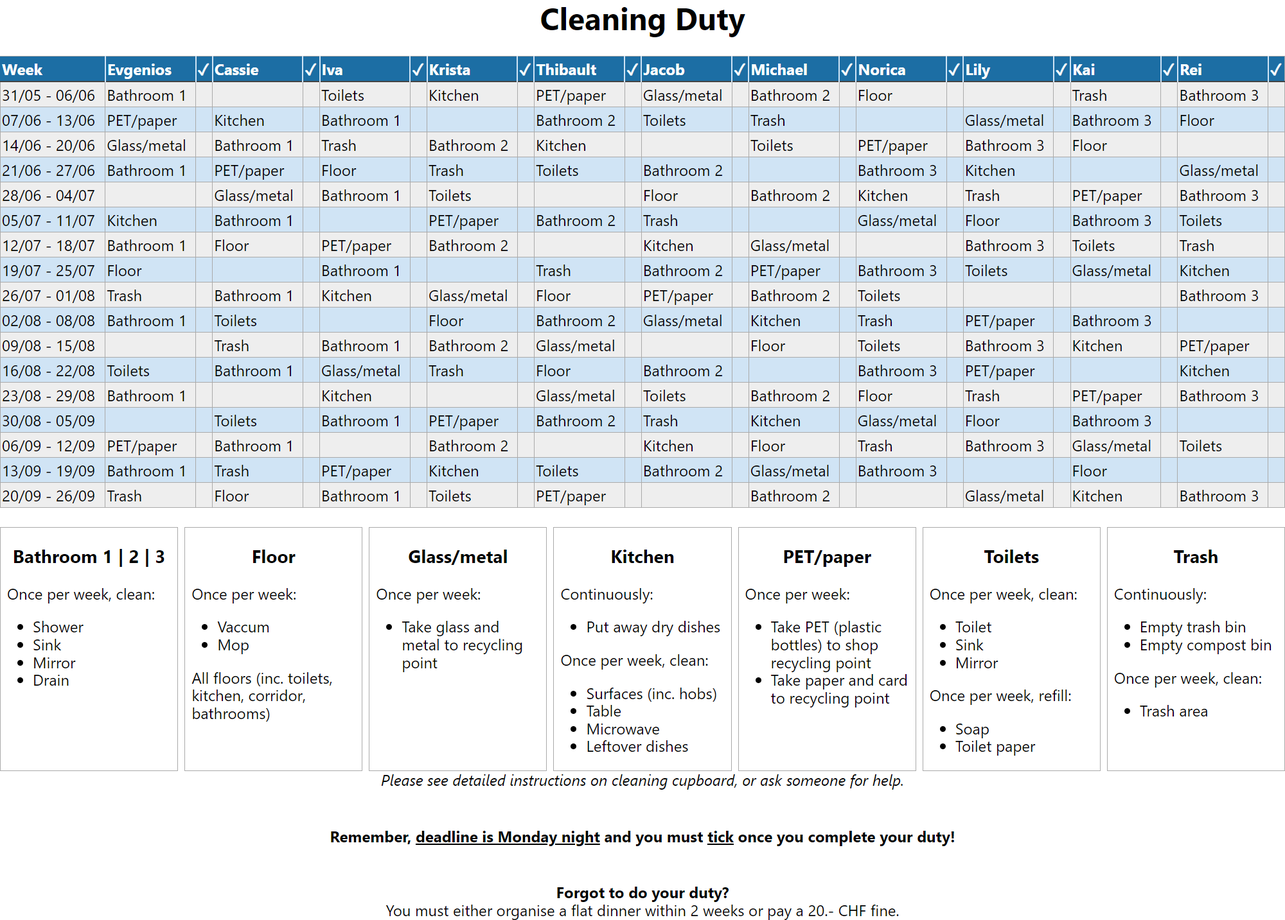
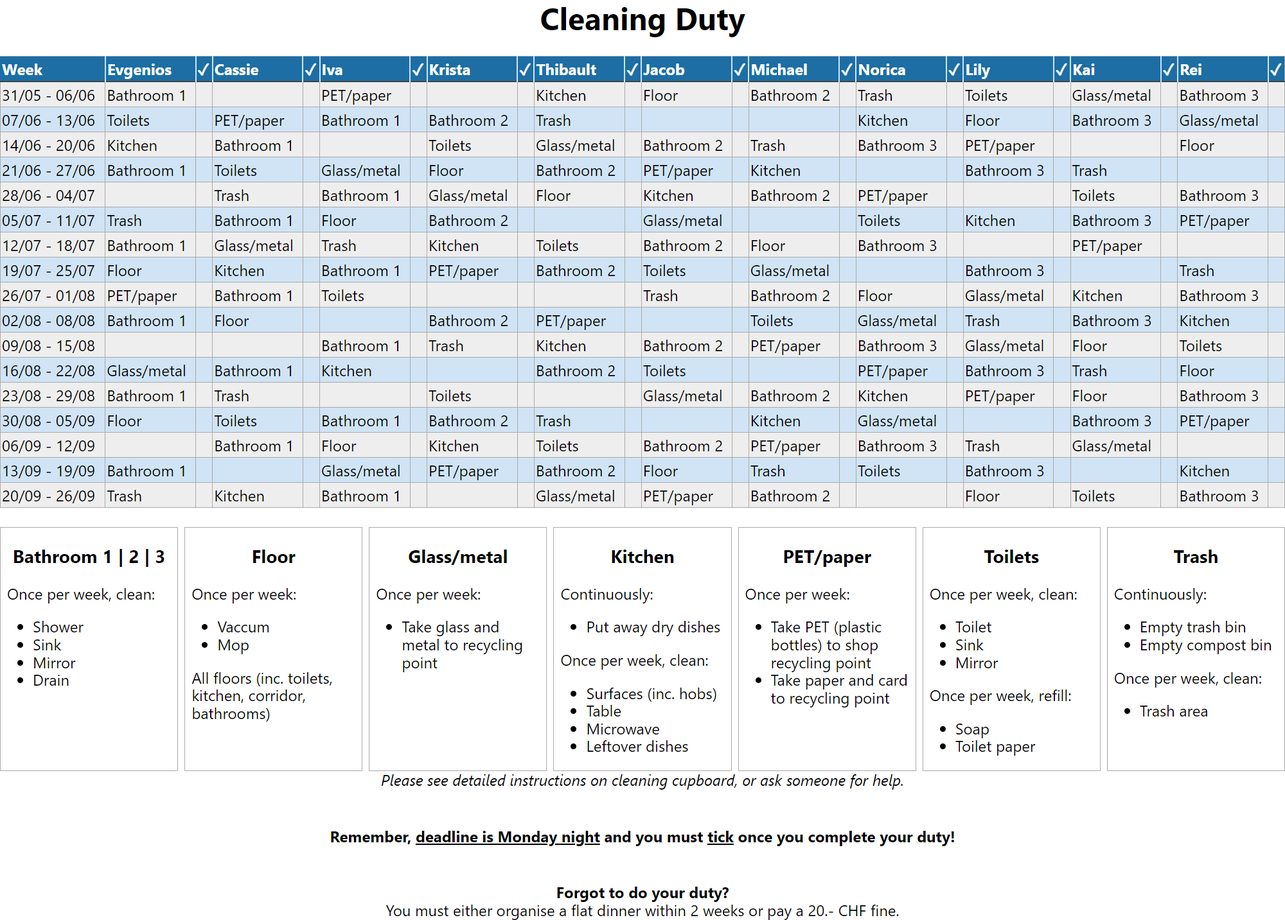
Regenerate with new seed

diff --git a/cleaning_duty.html b/cleaning_duty.html
@@ -10,23 +10,23 @@
 <tr><th>Week         </th><th>Evgenios   </th><th>✓  </th><th>Cassie     </th><th>✓  </th><th>Iva        </th><th>✓  </th><th>Krista     </th><th>✓  </th><th>Thibault   </th><th>✓  </th><th>Jacob      </th><th>✓  </th><th>Michael    </th><th>✓  </th><th>Norica     </th><th>✓  </th><th>Lily       </th><th>✓  </th><th>Kai        </th><th>✓  </th><th>Rei        </th><th>✓  </th></tr>
 </thead>
 <tbody>
-<tr><td>31/05 - 06/06</td><td>Bathroom 1 </td><td>   </td><td>           </td><td>   </td><td>Toilets    </td><td>   </td><td>Kitchen    </td><td>   </td><td>PET/paper  </td><td>   </td><td>Glass/metal</td><td>   </td><td>Bathroom 2 </td><td>   </td><td>Floor      </td><td>   </td><td>           </td><td>   </td><td>Trash      </td><td>   </td><td>Bathroom 3 </td><td>   </td></tr>
-<tr><td>07/06 - 13/06</td><td>PET/paper  </td><td>   </td><td>Kitchen    </td><td>   </td><td>Bathroom 1 </td><td>   </td><td>           </td><td>   </td><td>Bathroom 2 </td><td>   </td><td>Toilets    </td><td>   </td><td>Trash      </td><td>   </td><td>           </td><td>   </td><td>Glass/metal</td><td>   </td><td>Bathroom 3 </td><td>   </td><td>Floor      </td><td>   </td></tr>
-<tr><td>14/06 - 20/06</td><td>Glass/metal</td><td>   </td><td>Bathroom 1 </td><td>   </td><td>Trash      </td><td>   </td><td>Bathroom 2 </td><td>   </td><td>Kitchen    </td><td>   </td><td>           </td><td>   </td><td>Toilets    </td><td>   </td><td>PET/paper  </td><td>   </td><td>Bathroom 3 </td><td>   </td><td>Floor      </td><td>   </td><td>           </td><td>   </td></tr>
-<tr><td>21/06 - 27/06</td><td>Bathroom 1 </td><td>   </td><td>PET/paper  </td><td>   </td><td>Floor      </td><td>   </td><td>Trash      </td><td>   </td><td>Toilets    </td><td>   </td><td>Bathroom 2 </td><td>   </td><td>           </td><td>   </td><td>Bathroom 3 </td><td>   </td><td>Kitchen    </td><td>   </td><td>           </td><td>   </td><td>Glass/metal</td><td>   </td></tr>
-<tr><td>28/06 - 04/07</td><td>           </td><td>   </td><td>Glass/metal</td><td>   </td><td>Bathroom 1 </td><td>   </td><td>Toilets    </td><td>   </td><td>           </td><td>   </td><td>Floor      </td><td>   </td><td>Bathroom 2 </td><td>   </td><td>Kitchen    </td><td>   </td><td>Trash      </td><td>   </td><td>PET/paper  </td><td>   </td><td>Bathroom 3 </td><td>   </td></tr>
-<tr><td>05/07 - 11/07</td><td>Kitchen    </td><td>   </td><td>Bathroom 1 </td><td>   </td><td>           </td><td>   </td><td>PET/paper  </td><td>   </td><td>Bathroom 2 </td><td>   </td><td>Trash      </td><td>   </td><td>           </td><td>   </td><td>Glass/metal</td><td>   </td><td>Floor      </td><td>   </td><td>Bathroom 3 </td><td>   </td><td>Toilets    </td><td>   </td></tr>
-<tr><td>12/07 - 18/07</td><td>Bathroom 1 </td><td>   </td><td>Floor      </td><td>   </td><td>PET/paper  </td><td>   </td><td>Bathroom 2 </td><td>   </td><td>           </td><td>   </td><td>Kitchen    </td><td>   </td><td>Glass/metal</td><td>   </td><td>           </td><td>   </td><td>Bathroom 3 </td><td>   </td><td>Toilets    </td><td>   </td><td>Trash      </td><td>   </td></tr>
-<tr><td>19/07 - 25/07</td><td>Floor      </td><td>   </td><td>           </td><td>   </td><td>Bathroom 1 </td><td>   </td><td>           </td><td>   </td><td>Trash      </td><td>   </td><td>Bathroom 2 </td><td>   </td><td>PET/paper  </td><td>   </td><td>Bathroom 3 </td><td>   </td><td>Toilets    </td><td>   </td><td>Glass/metal</td><td>   </td><td>Kitchen    </td><td>   </td></tr>
-<tr><td>26/07 - 01/08</td><td>Trash      </td><td>   </td><td>Bathroom 1 </td><td>   </td><td>Kitchen    </td><td>   </td><td>Glass/metal</td><td>   </td><td>Floor      </td><td>   </td><td>PET/paper  </td><td>   </td><td>Bathroom 2 </td><td>   </td><td>Toilets    </td><td>   </td><td>           </td><td>   </td><td>           </td><td>   </td><td>Bathroom 3 </td><td>   </td></tr>
-<tr><td>02/08 - 08/08</td><td>Bathroom 1 </td><td>   </td><td>Toilets    </td><td>   </td><td>           </td><td>   </td><td>Floor      </td><td>   </td><td>Bathroom 2 </td><td>   </td><td>Glass/metal</td><td>   </td><td>Kitchen    </td><td>   </td><td>Trash      </td><td>   </td><td>PET/paper  </td><td>   </td><td>Bathroom 3 </td><td>   </td><td>           </td><td>   </td></tr>
-<tr><td>09/08 - 15/08</td><td>           </td><td>   </td><td>Trash      </td><td>   </td><td>Bathroom 1 </td><td>   </td><td>Bathroom 2 </td><td>   </td><td>Glass/metal</td><td>   </td><td>           </td><td>   </td><td>Floor      </td><td>   </td><td>Toilets    </td><td>   </td><td>Bathroom 3 </td><td>   </td><td>Kitchen    </td><td>   </td><td>PET/paper  </td><td>   </td></tr>
-<tr><td>16/08 - 22/08</td><td>Toilets    </td><td>   </td><td>Bathroom 1 </td><td>   </td><td>Glass/metal</td><td>   </td><td>Trash      </td><td>   </td><td>Floor      </td><td>   </td><td>Bathroom 2 </td><td>   </td><td>           </td><td>   </td><td>Bathroom 3 </td><td>   </td><td>PET/paper  </td><td>   </td><td>           </td><td>   </td><td>Kitchen    </td><td>   </td></tr>
-<tr><td>23/08 - 29/08</td><td>Bathroom 1 </td><td>   </td><td>           </td><td>   </td><td>Kitchen    </td><td>   </td><td>           </td><td>   </td><td>Glass/metal</td><td>   </td><td>Toilets    </td><td>   </td><td>Bathroom 2 </td><td>   </td><td>Floor      </td><td>   </td><td>Trash      </td><td>   </td><td>PET/paper  </td><td>   </td><td>Bathroom 3 </td><td>   </td></tr>
-<tr><td>30/08 - 05/09</td><td>           </td><td>   </td><td>Toilets    </td><td>   </td><td>Bathroom 1 </td><td>   </td><td>PET/paper  </td><td>   </td><td>Bathroom 2 </td><td>   </td><td>Trash      </td><td>   </td><td>Kitchen    </td><td>   </td><td>Glass/metal</td><td>   </td><td>Floor      </td><td>   </td><td>Bathroom 3 </td><td>   </td><td>           </td><td>   </td></tr>
-<tr><td>06/09 - 12/09</td><td>PET/paper  </td><td>   </td><td>Bathroom 1 </td><td>   </td><td>           </td><td>   </td><td>Bathroom 2 </td><td>   </td><td>           </td><td>   </td><td>Kitchen    </td><td>   </td><td>Floor      </td><td>   </td><td>Trash      </td><td>   </td><td>Bathroom 3 </td><td>   </td><td>Glass/metal</td><td>   </td><td>Toilets    </td><td>   </td></tr>
-<tr><td>13/09 - 19/09</td><td>Bathroom 1 </td><td>   </td><td>Trash      </td><td>   </td><td>PET/paper  </td><td>   </td><td>Kitchen    </td><td>   </td><td>Toilets    </td><td>   </td><td>Bathroom 2 </td><td>   </td><td>Glass/metal</td><td>   </td><td>Bathroom 3 </td><td>   </td><td>           </td><td>   </td><td>Floor      </td><td>   </td><td>           </td><td>   </td></tr>
-<tr><td>20/09 - 26/09</td><td>Trash      </td><td>   </td><td>Floor      </td><td>   </td><td>Bathroom 1 </td><td>   </td><td>Toilets    </td><td>   </td><td>PET/paper  </td><td>   </td><td>           </td><td>   </td><td>Bathroom 2 </td><td>   </td><td>           </td><td>   </td><td>Glass/metal</td><td>   </td><td>Kitchen    </td><td>   </td><td>Bathroom 3 </td><td>   </td></tr>
+<tr><td>31/05 - 06/06</td><td>Bathroom 1 </td><td>   </td><td>           </td><td>   </td><td>PET/paper  </td><td>   </td><td>           </td><td>   </td><td>Kitchen    </td><td>   </td><td>Floor      </td><td>   </td><td>Bathroom 2 </td><td>   </td><td>Trash      </td><td>   </td><td>Toilets    </td><td>   </td><td>Glass/metal</td><td>   </td><td>Bathroom 3 </td><td>   </td></tr>
+<tr><td>07/06 - 13/06</td><td>Toilets    </td><td>   </td><td>PET/paper  </td><td>   </td><td>Bathroom 1 </td><td>   </td><td>Bathroom 2 </td><td>   </td><td>Trash      </td><td>   </td><td>           </td><td>   </td><td>           </td><td>   </td><td>Kitchen    </td><td>   </td><td>Floor      </td><td>   </td><td>Bathroom 3 </td><td>   </td><td>Glass/metal</td><td>   </td></tr>
+<tr><td>14/06 - 20/06</td><td>Kitchen    </td><td>   </td><td>Bathroom 1 </td><td>   </td><td>           </td><td>   </td><td>Toilets    </td><td>   </td><td>Glass/metal</td><td>   </td><td>Bathroom 2 </td><td>   </td><td>Trash      </td><td>   </td><td>Bathroom 3 </td><td>   </td><td>PET/paper  </td><td>   </td><td>           </td><td>   </td><td>Floor      </td><td>   </td></tr>
+<tr><td>21/06 - 27/06</td><td>Bathroom 1 </td><td>   </td><td>Toilets    </td><td>   </td><td>Glass/metal</td><td>   </td><td>Floor      </td><td>   </td><td>Bathroom 2 </td><td>   </td><td>PET/paper  </td><td>   </td><td>Kitchen    </td><td>   </td><td>           </td><td>   </td><td>Bathroom 3 </td><td>   </td><td>Trash      </td><td>   </td><td>           </td><td>   </td></tr>
+<tr><td>28/06 - 04/07</td><td>           </td><td>   </td><td>Trash      </td><td>   </td><td>Bathroom 1 </td><td>   </td><td>Glass/metal</td><td>   </td><td>Floor      </td><td>   </td><td>Kitchen    </td><td>   </td><td>Bathroom 2 </td><td>   </td><td>PET/paper  </td><td>   </td><td>           </td><td>   </td><td>Toilets    </td><td>   </td><td>Bathroom 3 </td><td>   </td></tr>
+<tr><td>05/07 - 11/07</td><td>Trash      </td><td>   </td><td>Bathroom 1 </td><td>   </td><td>Floor      </td><td>   </td><td>Bathroom 2 </td><td>   </td><td>           </td><td>   </td><td>Glass/metal</td><td>   </td><td>           </td><td>   </td><td>Toilets    </td><td>   </td><td>Kitchen    </td><td>   </td><td>Bathroom 3 </td><td>   </td><td>PET/paper  </td><td>   </td></tr>
+<tr><td>12/07 - 18/07</td><td>Bathroom 1 </td><td>   </td><td>Glass/metal</td><td>   </td><td>Trash      </td><td>   </td><td>Kitchen    </td><td>   </td><td>Toilets    </td><td>   </td><td>Bathroom 2 </td><td>   </td><td>Floor      </td><td>   </td><td>Bathroom 3 </td><td>   </td><td>           </td><td>   </td><td>PET/paper  </td><td>   </td><td>           </td><td>   </td></tr>
+<tr><td>19/07 - 25/07</td><td>Floor      </td><td>   </td><td>Kitchen    </td><td>   </td><td>Bathroom 1 </td><td>   </td><td>PET/paper  </td><td>   </td><td>Bathroom 2 </td><td>   </td><td>Toilets    </td><td>   </td><td>Glass/metal</td><td>   </td><td>           </td><td>   </td><td>Bathroom 3 </td><td>   </td><td>           </td><td>   </td><td>Trash      </td><td>   </td></tr>
+<tr><td>26/07 - 01/08</td><td>PET/paper  </td><td>   </td><td>Bathroom 1 </td><td>   </td><td>Toilets    </td><td>   </td><td>           </td><td>   </td><td>           </td><td>   </td><td>Trash      </td><td>   </td><td>Bathroom 2 </td><td>   </td><td>Floor      </td><td>   </td><td>Glass/metal</td><td>   </td><td>Kitchen    </td><td>   </td><td>Bathroom 3 </td><td>   </td></tr>
+<tr><td>02/08 - 08/08</td><td>Bathroom 1 </td><td>   </td><td>Floor      </td><td>   </td><td>           </td><td>   </td><td>Bathroom 2 </td><td>   </td><td>PET/paper  </td><td>   </td><td>           </td><td>   </td><td>Toilets    </td><td>   </td><td>Glass/metal</td><td>   </td><td>Trash      </td><td>   </td><td>Bathroom 3 </td><td>   </td><td>Kitchen    </td><td>   </td></tr>
+<tr><td>09/08 - 15/08</td><td>           </td><td>   </td><td>           </td><td>   </td><td>Bathroom 1 </td><td>   </td><td>Trash      </td><td>   </td><td>Kitchen    </td><td>   </td><td>Bathroom 2 </td><td>   </td><td>PET/paper  </td><td>   </td><td>Bathroom 3 </td><td>   </td><td>Glass/metal</td><td>   </td><td>Floor      </td><td>   </td><td>Toilets    </td><td>   </td></tr>
+<tr><td>16/08 - 22/08</td><td>Glass/metal</td><td>   </td><td>Bathroom 1 </td><td>   </td><td>Kitchen    </td><td>   </td><td>           </td><td>   </td><td>Bathroom 2 </td><td>   </td><td>Toilets    </td><td>   </td><td>           </td><td>   </td><td>PET/paper  </td><td>   </td><td>Bathroom 3 </td><td>   </td><td>Trash      </td><td>   </td><td>Floor      </td><td>   </td></tr>
+<tr><td>23/08 - 29/08</td><td>Bathroom 1 </td><td>   </td><td>Trash      </td><td>   </td><td>           </td><td>   </td><td>Toilets    </td><td>   </td><td>           </td><td>   </td><td>Glass/metal</td><td>   </td><td>Bathroom 2 </td><td>   </td><td>Kitchen    </td><td>   </td><td>PET/paper  </td><td>   </td><td>Floor      </td><td>   </td><td>Bathroom 3 </td><td>   </td></tr>
+<tr><td>30/08 - 05/09</td><td>Floor      </td><td>   </td><td>Toilets    </td><td>   </td><td>Bathroom 1 </td><td>   </td><td>Bathroom 2 </td><td>   </td><td>Trash      </td><td>   </td><td>           </td><td>   </td><td>Kitchen    </td><td>   </td><td>Glass/metal</td><td>   </td><td>           </td><td>   </td><td>Bathroom 3 </td><td>   </td><td>PET/paper  </td><td>   </td></tr>
+<tr><td>06/09 - 12/09</td><td>           </td><td>   </td><td>Bathroom 1 </td><td>   </td><td>Floor      </td><td>   </td><td>Kitchen    </td><td>   </td><td>Toilets    </td><td>   </td><td>Bathroom 2 </td><td>   </td><td>PET/paper  </td><td>   </td><td>Bathroom 3 </td><td>   </td><td>Trash      </td><td>   </td><td>Glass/metal</td><td>   </td><td>           </td><td>   </td></tr>
+<tr><td>13/09 - 19/09</td><td>Bathroom 1 </td><td>   </td><td>           </td><td>   </td><td>Glass/metal</td><td>   </td><td>PET/paper  </td><td>   </td><td>Bathroom 2 </td><td>   </td><td>Floor      </td><td>   </td><td>Trash      </td><td>   </td><td>Toilets    </td><td>   </td><td>Bathroom 3 </td><td>   </td><td>           </td><td>   </td><td>Kitchen    </td><td>   </td></tr>
+<tr><td>20/09 - 26/09</td><td>Trash      </td><td>   </td><td>Kitchen    </td><td>   </td><td>Bathroom 1 </td><td>   </td><td>           </td><td>   </td><td>Glass/metal</td><td>   </td><td>PET/paper  </td><td>   </td><td>Bathroom 2 </td><td>   </td><td>           </td><td>   </td><td>Floor      </td><td>   </td><td>Toilets    </td><td>   </td><td>Bathroom 3 </td><td>   </td></tr>
 </tbody>
 </table>
 <div class="container">

diff --git a/html/table.html b/html/table.html
@@ -3,22 +3,22 @@
 <tr><th>Week         </th><th>Evgenios   </th><th>✓  </th><th>Cassie     </th><th>✓  </th><th>Iva        </th><th>✓  </th><th>Krista     </th><th>✓  </th><th>Thibault   </th><th>✓  </th><th>Jacob      </th><th>✓  </th><th>Michael    </th><th>✓  </th><th>Norica     </th><th>✓  </th><th>Lily       </th><th>✓  </th><th>Kai        </th><th>✓  </th><th>Rei        </th><th>✓  </th></tr>
 </thead>
 <tbody>
-<tr><td>31/05 - 06/06</td><td>Bathroom 1 </td><td>   </td><td>           </td><td>   </td><td>Toilets    </td><td>   </td><td>Kitchen    </td><td>   </td><td>PET/paper  </td><td>   </td><td>Glass/metal</td><td>   </td><td>Bathroom 2 </td><td>   </td><td>Floor      </td><td>   </td><td>           </td><td>   </td><td>Trash      </td><td>   </td><td>Bathroom 3 </td><td>   </td></tr>
-<tr><td>07/06 - 13/06</td><td>PET/paper  </td><td>   </td><td>Kitchen    </td><td>   </td><td>Bathroom 1 </td><td>   </td><td>           </td><td>   </td><td>Bathroom 2 </td><td>   </td><td>Toilets    </td><td>   </td><td>Trash      </td><td>   </td><td>           </td><td>   </td><td>Glass/metal</td><td>   </td><td>Bathroom 3 </td><td>   </td><td>Floor      </td><td>   </td></tr>
-<tr><td>14/06 - 20/06</td><td>Glass/metal</td><td>   </td><td>Bathroom 1 </td><td>   </td><td>Trash      </td><td>   </td><td>Bathroom 2 </td><td>   </td><td>Kitchen    </td><td>   </td><td>           </td><td>   </td><td>Toilets    </td><td>   </td><td>PET/paper  </td><td>   </td><td>Bathroom 3 </td><td>   </td><td>Floor      </td><td>   </td><td>           </td><td>   </td></tr>
-<tr><td>21/06 - 27/06</td><td>Bathroom 1 </td><td>   </td><td>PET/paper  </td><td>   </td><td>Floor      </td><td>   </td><td>Trash      </td><td>   </td><td>Toilets    </td><td>   </td><td>Bathroom 2 </td><td>   </td><td>           </td><td>   </td><td>Bathroom 3 </td><td>   </td><td>Kitchen    </td><td>   </td><td>           </td><td>   </td><td>Glass/metal</td><td>   </td></tr>
-<tr><td>28/06 - 04/07</td><td>           </td><td>   </td><td>Glass/metal</td><td>   </td><td>Bathroom 1 </td><td>   </td><td>Toilets    </td><td>   </td><td>           </td><td>   </td><td>Floor      </td><td>   </td><td>Bathroom 2 </td><td>   </td><td>Kitchen    </td><td>   </td><td>Trash      </td><td>   </td><td>PET/paper  </td><td>   </td><td>Bathroom 3 </td><td>   </td></tr>
-<tr><td>05/07 - 11/07</td><td>Kitchen    </td><td>   </td><td>Bathroom 1 </td><td>   </td><td>           </td><td>   </td><td>PET/paper  </td><td>   </td><td>Bathroom 2 </td><td>   </td><td>Trash      </td><td>   </td><td>           </td><td>   </td><td>Glass/metal</td><td>   </td><td>Floor      </td><td>   </td><td>Bathroom 3 </td><td>   </td><td>Toilets    </td><td>   </td></tr>
-<tr><td>12/07 - 18/07</td><td>Bathroom 1 </td><td>   </td><td>Floor      </td><td>   </td><td>PET/paper  </td><td>   </td><td>Bathroom 2 </td><td>   </td><td>           </td><td>   </td><td>Kitchen    </td><td>   </td><td>Glass/metal</td><td>   </td><td>           </td><td>   </td><td>Bathroom 3 </td><td>   </td><td>Toilets    </td><td>   </td><td>Trash      </td><td>   </td></tr>
-<tr><td>19/07 - 25/07</td><td>Floor      </td><td>   </td><td>           </td><td>   </td><td>Bathroom 1 </td><td>   </td><td>           </td><td>   </td><td>Trash      </td><td>   </td><td>Bathroom 2 </td><td>   </td><td>PET/paper  </td><td>   </td><td>Bathroom 3 </td><td>   </td><td>Toilets    </td><td>   </td><td>Glass/metal</td><td>   </td><td>Kitchen    </td><td>   </td></tr>
-<tr><td>26/07 - 01/08</td><td>Trash      </td><td>   </td><td>Bathroom 1 </td><td>   </td><td>Kitchen    </td><td>   </td><td>Glass/metal</td><td>   </td><td>Floor      </td><td>   </td><td>PET/paper  </td><td>   </td><td>Bathroom 2 </td><td>   </td><td>Toilets    </td><td>   </td><td>           </td><td>   </td><td>           </td><td>   </td><td>Bathroom 3 </td><td>   </td></tr>
-<tr><td>02/08 - 08/08</td><td>Bathroom 1 </td><td>   </td><td>Toilets    </td><td>   </td><td>           </td><td>   </td><td>Floor      </td><td>   </td><td>Bathroom 2 </td><td>   </td><td>Glass/metal</td><td>   </td><td>Kitchen    </td><td>   </td><td>Trash      </td><td>   </td><td>PET/paper  </td><td>   </td><td>Bathroom 3 </td><td>   </td><td>           </td><td>   </td></tr>
-<tr><td>09/08 - 15/08</td><td>           </td><td>   </td><td>Trash      </td><td>   </td><td>Bathroom 1 </td><td>   </td><td>Bathroom 2 </td><td>   </td><td>Glass/metal</td><td>   </td><td>           </td><td>   </td><td>Floor      </td><td>   </td><td>Toilets    </td><td>   </td><td>Bathroom 3 </td><td>   </td><td>Kitchen    </td><td>   </td><td>PET/paper  </td><td>   </td></tr>
-<tr><td>16/08 - 22/08</td><td>Toilets    </td><td>   </td><td>Bathroom 1 </td><td>   </td><td>Glass/metal</td><td>   </td><td>Trash      </td><td>   </td><td>Floor      </td><td>   </td><td>Bathroom 2 </td><td>   </td><td>           </td><td>   </td><td>Bathroom 3 </td><td>   </td><td>PET/paper  </td><td>   </td><td>           </td><td>   </td><td>Kitchen    </td><td>   </td></tr>
-<tr><td>23/08 - 29/08</td><td>Bathroom 1 </td><td>   </td><td>           </td><td>   </td><td>Kitchen    </td><td>   </td><td>           </td><td>   </td><td>Glass/metal</td><td>   </td><td>Toilets    </td><td>   </td><td>Bathroom 2 </td><td>   </td><td>Floor      </td><td>   </td><td>Trash      </td><td>   </td><td>PET/paper  </td><td>   </td><td>Bathroom 3 </td><td>   </td></tr>
-<tr><td>30/08 - 05/09</td><td>           </td><td>   </td><td>Toilets    </td><td>   </td><td>Bathroom 1 </td><td>   </td><td>PET/paper  </td><td>   </td><td>Bathroom 2 </td><td>   </td><td>Trash      </td><td>   </td><td>Kitchen    </td><td>   </td><td>Glass/metal</td><td>   </td><td>Floor      </td><td>   </td><td>Bathroom 3 </td><td>   </td><td>           </td><td>   </td></tr>
-<tr><td>06/09 - 12/09</td><td>PET/paper  </td><td>   </td><td>Bathroom 1 </td><td>   </td><td>           </td><td>   </td><td>Bathroom 2 </td><td>   </td><td>           </td><td>   </td><td>Kitchen    </td><td>   </td><td>Floor      </td><td>   </td><td>Trash      </td><td>   </td><td>Bathroom 3 </td><td>   </td><td>Glass/metal</td><td>   </td><td>Toilets    </td><td>   </td></tr>
-<tr><td>13/09 - 19/09</td><td>Bathroom 1 </td><td>   </td><td>Trash      </td><td>   </td><td>PET/paper  </td><td>   </td><td>Kitchen    </td><td>   </td><td>Toilets    </td><td>   </td><td>Bathroom 2 </td><td>   </td><td>Glass/metal</td><td>   </td><td>Bathroom 3 </td><td>   </td><td>           </td><td>   </td><td>Floor      </td><td>   </td><td>           </td><td>   </td></tr>
-<tr><td>20/09 - 26/09</td><td>Trash      </td><td>   </td><td>Floor      </td><td>   </td><td>Bathroom 1 </td><td>   </td><td>Toilets    </td><td>   </td><td>PET/paper  </td><td>   </td><td>           </td><td>   </td><td>Bathroom 2 </td><td>   </td><td>           </td><td>   </td><td>Glass/metal</td><td>   </td><td>Kitchen    </td><td>   </td><td>Bathroom 3 </td><td>   </td></tr>
+<tr><td>31/05 - 06/06</td><td>Bathroom 1 </td><td>   </td><td>           </td><td>   </td><td>PET/paper  </td><td>   </td><td>           </td><td>   </td><td>Kitchen    </td><td>   </td><td>Floor      </td><td>   </td><td>Bathroom 2 </td><td>   </td><td>Trash      </td><td>   </td><td>Toilets    </td><td>   </td><td>Glass/metal</td><td>   </td><td>Bathroom 3 </td><td>   </td></tr>
+<tr><td>07/06 - 13/06</td><td>Toilets    </td><td>   </td><td>PET/paper  </td><td>   </td><td>Bathroom 1 </td><td>   </td><td>Bathroom 2 </td><td>   </td><td>Trash      </td><td>   </td><td>           </td><td>   </td><td>           </td><td>   </td><td>Kitchen    </td><td>   </td><td>Floor      </td><td>   </td><td>Bathroom 3 </td><td>   </td><td>Glass/metal</td><td>   </td></tr>
+<tr><td>14/06 - 20/06</td><td>Kitchen    </td><td>   </td><td>Bathroom 1 </td><td>   </td><td>           </td><td>   </td><td>Toilets    </td><td>   </td><td>Glass/metal</td><td>   </td><td>Bathroom 2 </td><td>   </td><td>Trash      </td><td>   </td><td>Bathroom 3 </td><td>   </td><td>PET/paper  </td><td>   </td><td>           </td><td>   </td><td>Floor      </td><td>   </td></tr>
+<tr><td>21/06 - 27/06</td><td>Bathroom 1 </td><td>   </td><td>Toilets    </td><td>   </td><td>Glass/metal</td><td>   </td><td>Floor      </td><td>   </td><td>Bathroom 2 </td><td>   </td><td>PET/paper  </td><td>   </td><td>Kitchen    </td><td>   </td><td>           </td><td>   </td><td>Bathroom 3 </td><td>   </td><td>Trash      </td><td>   </td><td>           </td><td>   </td></tr>
+<tr><td>28/06 - 04/07</td><td>           </td><td>   </td><td>Trash      </td><td>   </td><td>Bathroom 1 </td><td>   </td><td>Glass/metal</td><td>   </td><td>Floor      </td><td>   </td><td>Kitchen    </td><td>   </td><td>Bathroom 2 </td><td>   </td><td>PET/paper  </td><td>   </td><td>           </td><td>   </td><td>Toilets    </td><td>   </td><td>Bathroom 3 </td><td>   </td></tr>
+<tr><td>05/07 - 11/07</td><td>Trash      </td><td>   </td><td>Bathroom 1 </td><td>   </td><td>Floor      </td><td>   </td><td>Bathroom 2 </td><td>   </td><td>           </td><td>   </td><td>Glass/metal</td><td>   </td><td>           </td><td>   </td><td>Toilets    </td><td>   </td><td>Kitchen    </td><td>   </td><td>Bathroom 3 </td><td>   </td><td>PET/paper  </td><td>   </td></tr>
+<tr><td>12/07 - 18/07</td><td>Bathroom 1 </td><td>   </td><td>Glass/metal</td><td>   </td><td>Trash      </td><td>   </td><td>Kitchen    </td><td>   </td><td>Toilets    </td><td>   </td><td>Bathroom 2 </td><td>   </td><td>Floor      </td><td>   </td><td>Bathroom 3 </td><td>   </td><td>           </td><td>   </td><td>PET/paper  </td><td>   </td><td>           </td><td>   </td></tr>
+<tr><td>19/07 - 25/07</td><td>Floor      </td><td>   </td><td>Kitchen    </td><td>   </td><td>Bathroom 1 </td><td>   </td><td>PET/paper  </td><td>   </td><td>Bathroom 2 </td><td>   </td><td>Toilets    </td><td>   </td><td>Glass/metal</td><td>   </td><td>           </td><td>   </td><td>Bathroom 3 </td><td>   </td><td>           </td><td>   </td><td>Trash      </td><td>   </td></tr>
+<tr><td>26/07 - 01/08</td><td>PET/paper  </td><td>   </td><td>Bathroom 1 </td><td>   </td><td>Toilets    </td><td>   </td><td>           </td><td>   </td><td>           </td><td>   </td><td>Trash      </td><td>   </td><td>Bathroom 2 </td><td>   </td><td>Floor      </td><td>   </td><td>Glass/metal</td><td>   </td><td>Kitchen    </td><td>   </td><td>Bathroom 3 </td><td>   </td></tr>
+<tr><td>02/08 - 08/08</td><td>Bathroom 1 </td><td>   </td><td>Floor      </td><td>   </td><td>           </td><td>   </td><td>Bathroom 2 </td><td>   </td><td>PET/paper  </td><td>   </td><td>           </td><td>   </td><td>Toilets    </td><td>   </td><td>Glass/metal</td><td>   </td><td>Trash      </td><td>   </td><td>Bathroom 3 </td><td>   </td><td>Kitchen    </td><td>   </td></tr>
+<tr><td>09/08 - 15/08</td><td>           </td><td>   </td><td>           </td><td>   </td><td>Bathroom 1 </td><td>   </td><td>Trash      </td><td>   </td><td>Kitchen    </td><td>   </td><td>Bathroom 2 </td><td>   </td><td>PET/paper  </td><td>   </td><td>Bathroom 3 </td><td>   </td><td>Glass/metal</td><td>   </td><td>Floor      </td><td>   </td><td>Toilets    </td><td>   </td></tr>
+<tr><td>16/08 - 22/08</td><td>Glass/metal</td><td>   </td><td>Bathroom 1 </td><td>   </td><td>Kitchen    </td><td>   </td><td>           </td><td>   </td><td>Bathroom 2 </td><td>   </td><td>Toilets    </td><td>   </td><td>           </td><td>   </td><td>PET/paper  </td><td>   </td><td>Bathroom 3 </td><td>   </td><td>Trash      </td><td>   </td><td>Floor      </td><td>   </td></tr>
+<tr><td>23/08 - 29/08</td><td>Bathroom 1 </td><td>   </td><td>Trash      </td><td>   </td><td>           </td><td>   </td><td>Toilets    </td><td>   </td><td>           </td><td>   </td><td>Glass/metal</td><td>   </td><td>Bathroom 2 </td><td>   </td><td>Kitchen    </td><td>   </td><td>PET/paper  </td><td>   </td><td>Floor      </td><td>   </td><td>Bathroom 3 </td><td>   </td></tr>
+<tr><td>30/08 - 05/09</td><td>Floor      </td><td>   </td><td>Toilets    </td><td>   </td><td>Bathroom 1 </td><td>   </td><td>Bathroom 2 </td><td>   </td><td>Trash      </td><td>   </td><td>           </td><td>   </td><td>Kitchen    </td><td>   </td><td>Glass/metal</td><td>   </td><td>           </td><td>   </td><td>Bathroom 3 </td><td>   </td><td>PET/paper  </td><td>   </td></tr>
+<tr><td>06/09 - 12/09</td><td>           </td><td>   </td><td>Bathroom 1 </td><td>   </td><td>Floor      </td><td>   </td><td>Kitchen    </td><td>   </td><td>Toilets    </td><td>   </td><td>Bathroom 2 </td><td>   </td><td>PET/paper  </td><td>   </td><td>Bathroom 3 </td><td>   </td><td>Trash      </td><td>   </td><td>Glass/metal</td><td>   </td><td>           </td><td>   </td></tr>
+<tr><td>13/09 - 19/09</td><td>Bathroom 1 </td><td>   </td><td>           </td><td>   </td><td>Glass/metal</td><td>   </td><td>PET/paper  </td><td>   </td><td>Bathroom 2 </td><td>   </td><td>Floor      </td><td>   </td><td>Trash      </td><td>   </td><td>Toilets    </td><td>   </td><td>Bathroom 3 </td><td>   </td><td>           </td><td>   </td><td>Kitchen    </td><td>   </td></tr>
+<tr><td>20/09 - 26/09</td><td>Trash      </td><td>   </td><td>Kitchen    </td><td>   </td><td>Bathroom 1 </td><td>   </td><td>           </td><td>   </td><td>Glass/metal</td><td>   </td><td>PET/paper  </td><td>   </td><td>Bathroom 2 </td><td>   </td><td>           </td><td>   </td><td>Floor      </td><td>   </td><td>Toilets    </td><td>   </td><td>Bathroom 3 </td><td>   </td></tr>
 </tbody>
 </table>
